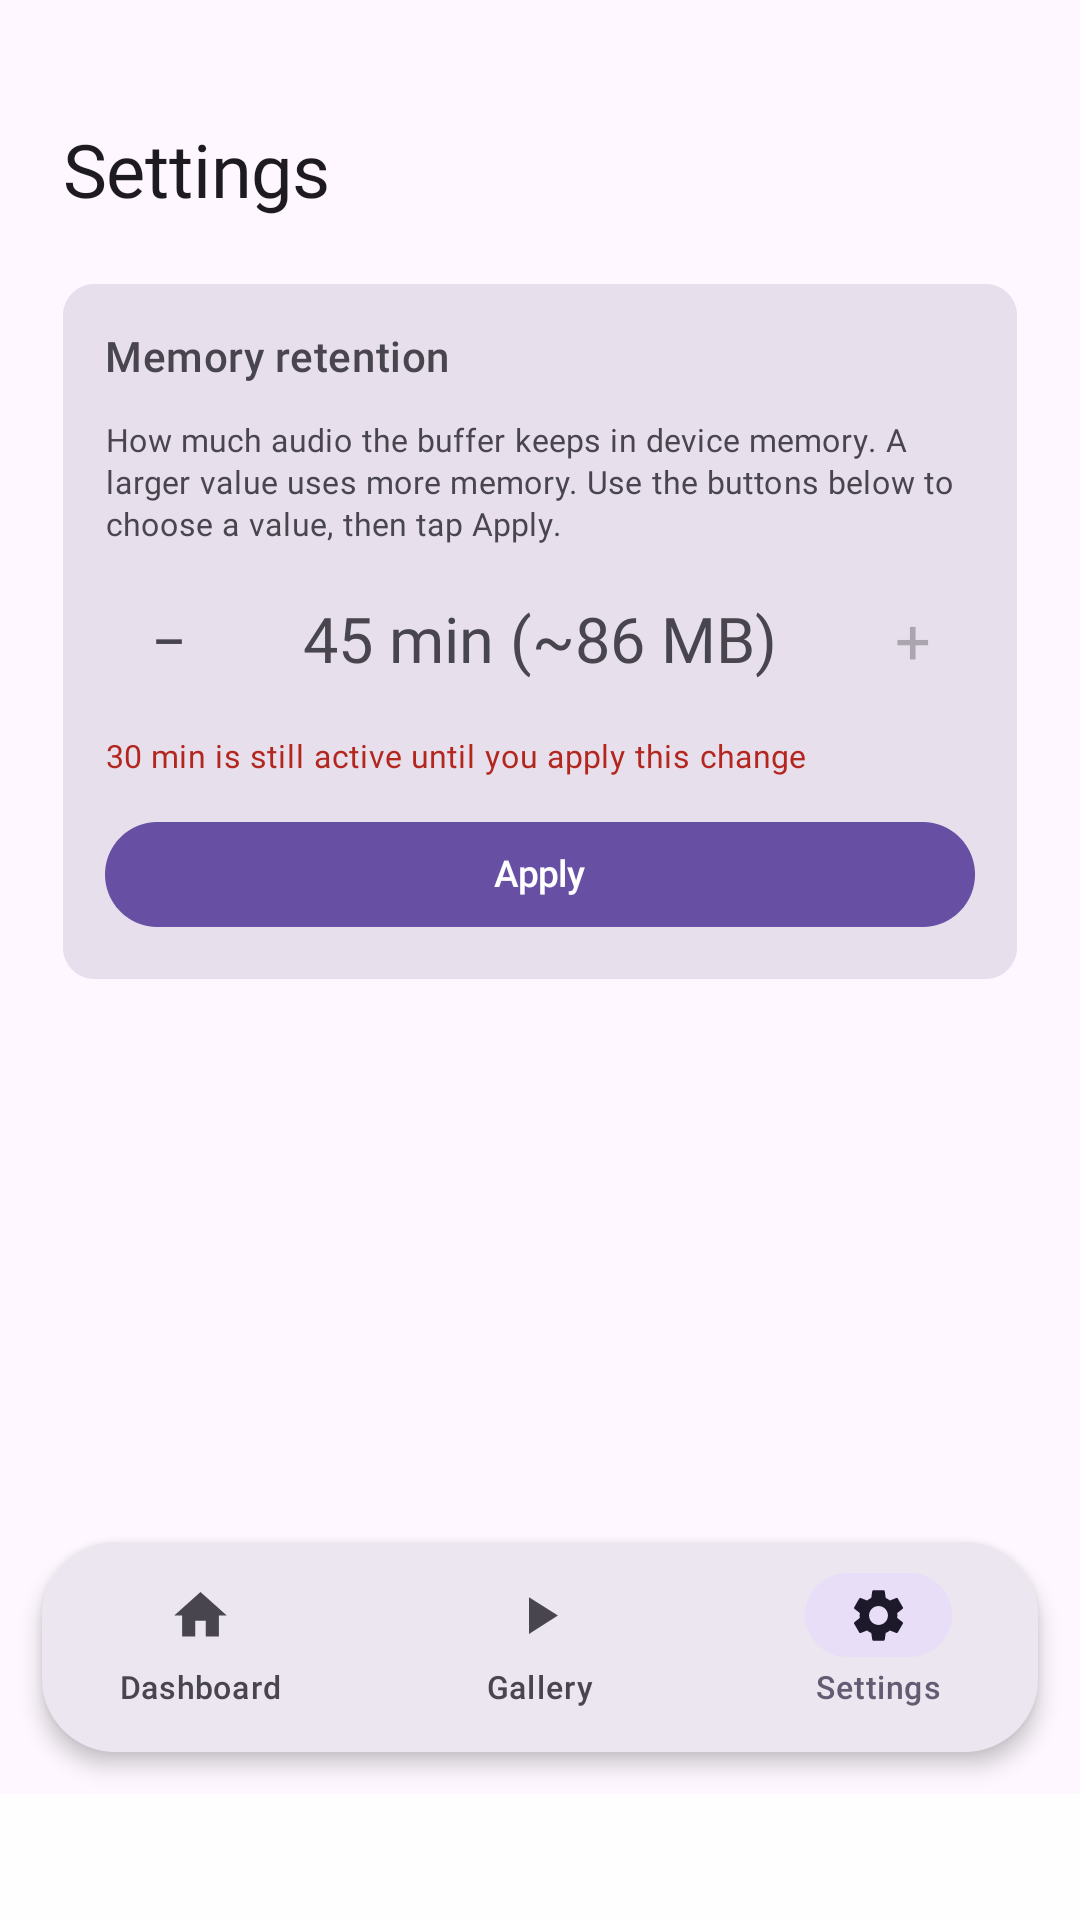
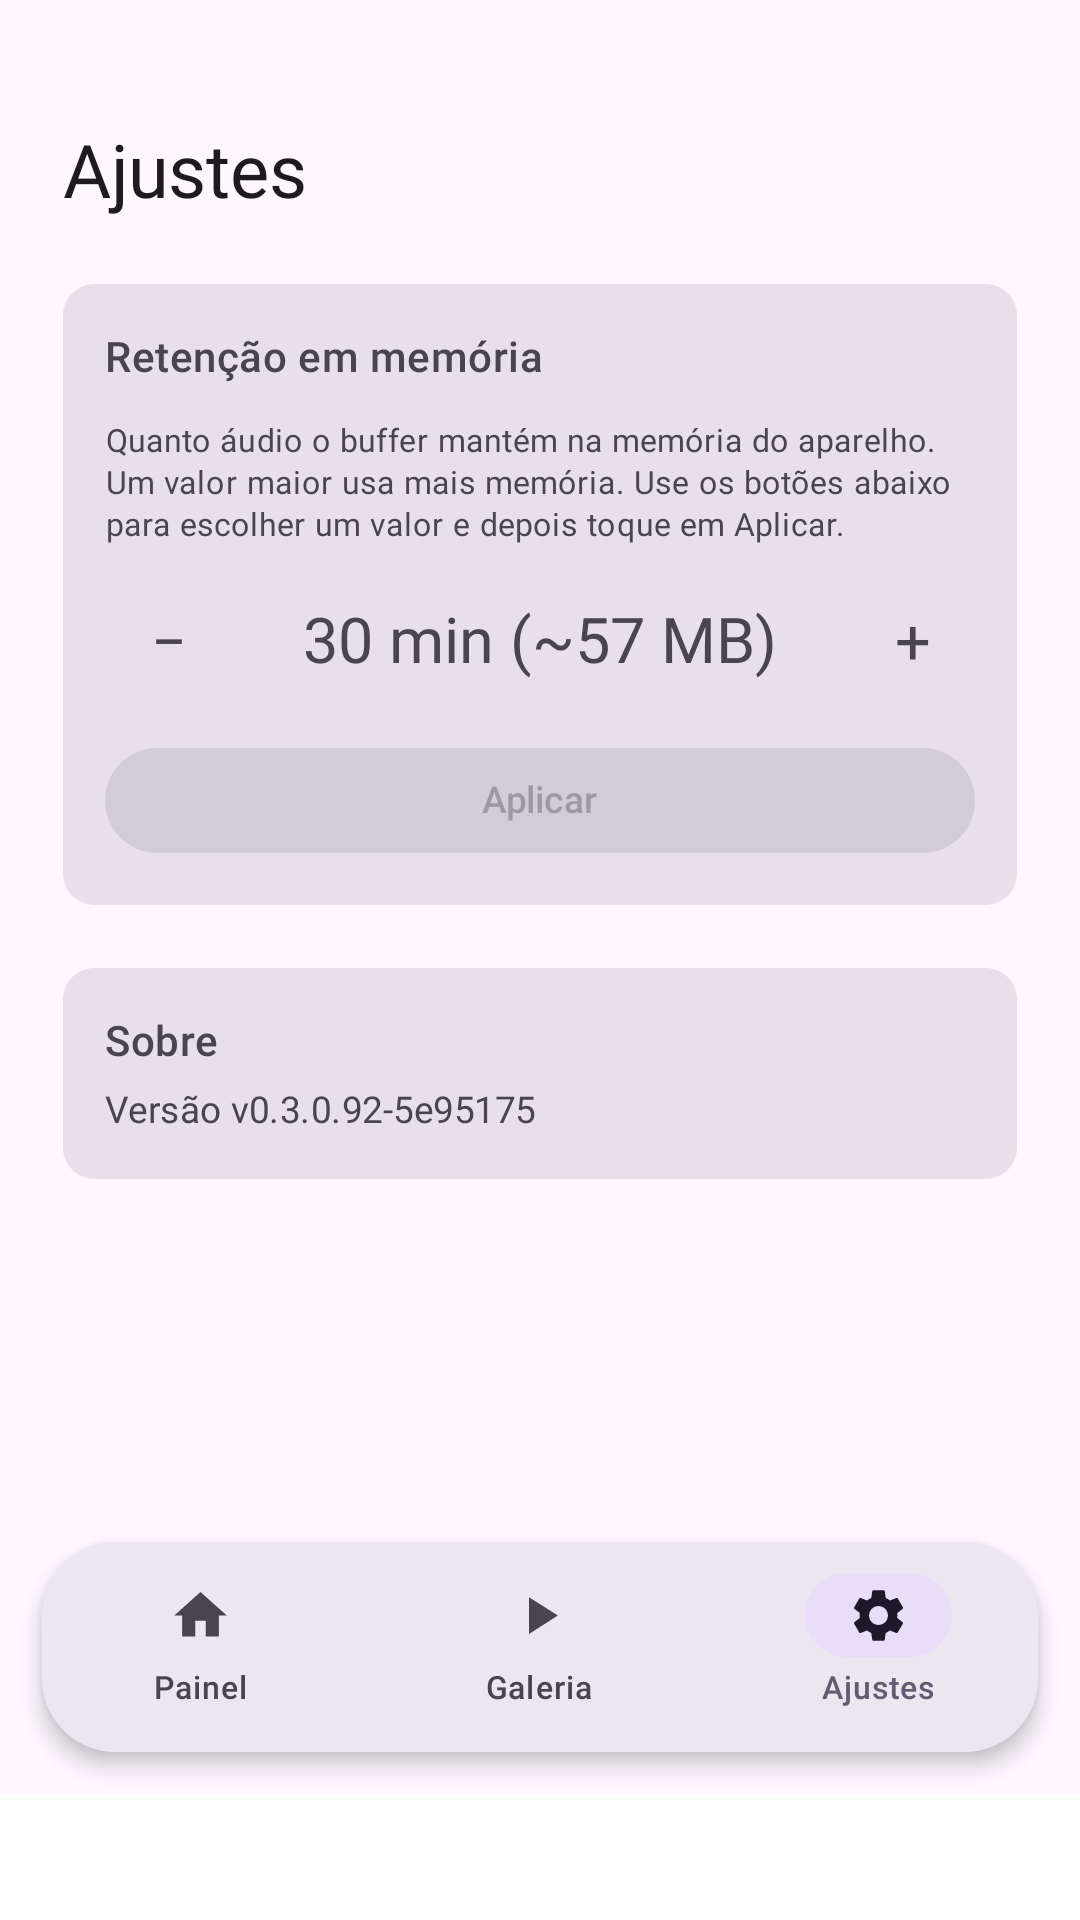
test: showcase fixture and pinned locale for store captures (fixes #151) (#152)
The store screenshots could not be regenerated because ScreenshotCaptureTest was
never a store-capture harness. Two independent defects, both silent.

## The locale was inherited from the device, and the device lies

An en-US capture rendered in Portuguese while `getprop persist.sys.locale`
cheerfully reported `en-US`. The resource resolver follows
`settings get system system_locales`, which on the CI AVD had persisted `pt-BR`
from an earlier session. It survives `settings put ... en-US` plus a framework
restart (the restart rewrites it from the running config) and it survives
`settings delete` plus `setprop persist.sys.locale en-US` plus `adb reboot`.
`am get-config` is the only honest oracle, and it disagreed with getprop the
whole time.

The locale is now pinned in-process with createConfigurationContext, so the
AVD's state is irrelevant and the result reproduces anywhere. Both locales are
captured in one test so the run can assert they differ: the realistic failure
is not a crash, it is two byte-identical images filed under two languages --
which already happened once and was caught only by running md5sum by hand.
That is now a build failure.

Deliberately does not touch Locale.setDefault. GalleryFormat builds its date
and size strings with a hardcoded pattern and an explicit Locale.US, by choice,
so the JVM default affects no pixel here; setting it would be a no-op dressed
up as a safeguard. Noted in the test so it is not added on assumption.
[…]

diff --git a/app/src/androidTest/java/cc/machado/audioblackbox/ui/ScreenshotCaptureTest.kt b/app/src/androidTest/java/cc/machado/audioblackbox/ui/ScreenshotCaptureTest.kt
@@ -1,9 +1,19 @@
 package cc.machado.audioblackbox.ui
 
+import android.content.Context
+import android.content.res.Configuration
 import android.graphics.Bitmap
+import android.os.LocaleList
 import androidx.activity.ComponentActivity
 import androidx.activity.enableEdgeToEdge
+import androidx.compose.runtime.CompositionLocalProvider
+import androidx.compose.runtime.getValue
+import androidx.compose.runtime.mutableStateOf
+import androidx.compose.runtime.remember
+import androidx.compose.runtime.setValue
 import androidx.compose.ui.graphics.asAndroidBitmap
+import androidx.compose.ui.platform.LocalConfiguration
+import androidx.compose.ui.platform.LocalContext
 import androidx.compose.ui.test.captureToImage
 import androidx.compose.ui.test.hasClickAction
 import androidx.compose.ui.test.hasText
@@ -11,7 +21,10 @@ import androidx.compose.ui.test.junit4.createAndroidComposeRule
 import androidx.compose.ui.test.onRoot
 import androidx.compose.ui.test.performClick
 import androidx.test.ext.junit.runners.AndroidJUnit4
+import androidx.test.platform.app.InstrumentationRegistry
 import cc.machado.audioblackbox.R
+import java.util.Locale
+import org.junit.Assert.assertFalse
 import org.junit.Assert.assertTrue
 import org.junit.Rule
 import org.junit.Test
@@ -64,13 +77,108 @@ class ScreenshotCaptureTest {
         capture("06-settings-compact")
     }
 
+    /**
+     * Store-listing captures (issue #151): the showcase fixtures, rendered once per locale, with the
+     * locale pinned in-process rather than inherited from the device.
+     *
+     * ## Why the locale is not set on the device
+     * It cannot be, reliably. `settings get system system_locales` is what the resource resolver
+     * actually follows, and on the CI AVD it persists across sessions: it survives
+     * `settings put ... en-US` followed by a framework restart (the restart rewrites it back from
+     * the running config), and it survives `settings delete` plus
+     * `setprop persist.sys.locale en-US` plus `adb reboot`. Worse, `getprop persist.sys.locale`
+     * happily reports the value you asked for while `am get-config` reports `pt-rBR` -- so the
+     * device lies about it, and the failure is silent: a valid PNG in the wrong language. That is
+     * how a previous capture run produced a pt-BR image sitting in the en-US store slot.
+     *
+     * `createConfigurationContext` sidesteps all of it. The locale comes from this file, the AVD's
+     * state is irrelevant, and the result is reproducible on any device or emulator.
+     *
+     * ## Why both locales are captured in one test
+     * So the last assertion can exist. The realistic failure here is not a crash, it is the two
+     * locales coming out byte-identical -- which is exactly what happened once before and was caught
+     * only by running `md5sum` by hand afterwards. Comparing them inside the test makes that a build
+     * failure instead of something a human has to remember to check.
+     */
+    @Test
+    fun capturesShowcaseInBothLocalesAndTheyDiffer() {
+        composeRule.runOnUiThread { composeRule.activity.enableEdgeToEdge() }
+
+        // showcaseDashboardFixture is CaptureState.Recording, which renders an infinite pulse
+        // animation. Left on the automatic clock, waitForIdle would never see a settled frame.
+        // Driving the clock by hand also makes the captured frame deterministic rather than
+        // whichever point of the pulse the capture happened to land on.
+        composeRule.mainClock.autoAdvance = false
+
+        var localeTag by mutableStateOf(LOCALE_EN)
+        var destination by mutableStateOf(Destination.DASHBOARD)
+
+        composeRule.setContent {
+            val localized = remember(localeTag) { localizedContext(localeTag) }
+            CompositionLocalProvider(
+                LocalContext provides localized,
+                LocalConfiguration provides localized.resources.configuration,
+            ) {
+                ShowcaseApp(destination)
+            }
+        }
+
+        val written = mutableMapOf<String, ByteArray>()
+        // Deliberately does NOT call Locale.setDefault. Providing LocalConfiguration covers resource
+        // lookup, and that is all this app needs: the only numerics it formats -- the capture date
+        // and the file size in GalleryFormat -- are built with a hardcoded pattern and an explicit
+        // Locale.US, by choice ("a numeric date pattern, not translated"). So the JVM default locale
+        // has no effect on any pixel captured here, and setting it would be a no-op dressed up as a
+        // safeguard. If locale-sensitive formatting is ever introduced, this is the place to add it
+        // back -- with a capture that demonstrably changes, not on the assumption that it must.
+        for (tag in listOf(LOCALE_EN, LOCALE_PT)) {
+            localeTag = tag
+            for ((dest, name) in DESTINATIONS) {
+                destination = dest
+                // Two frames: one for the recomposition triggered by the state change above, one to
+                // land on a fixed point of the pulse animation.
+                composeRule.mainClock.advanceTimeByFrame()
+                composeRule.mainClock.advanceTimeBy(ANIMATION_SETTLE_MILLIS)
+                written["$tag-$name"] = capture("$tag-$name")
+            }
+        }
+
+        // The failure this guards against is silent: same picture, two store slots, one of them in
+        // the wrong language. Compared per screen rather than in aggregate so the message names
+        // which screen failed to translate.
+        for ((_, name) in DESTINATIONS) {
+            val en = written.getValue("$LOCALE_EN-$name")
+            val pt = written.getValue("$LOCALE_PT-$name")
+            assertFalse(
+                "$name rendered byte-identically in $LOCALE_EN and $LOCALE_PT -- the locale was not " +
+                    "applied, and one of these would ship to the wrong store listing",
+                en.contentEquals(pt),
+            )
+        }
+    }
+
+    /**
+     * A [Context] whose resources resolve in [tag], regardless of the device's own locale.
+     *
+     * Built from the *instrumentation* target context rather than the activity, so it carries the
+     * app's resources and not the test APK's.
+     */
+    private fun localizedContext(tag: String): Context {
+        val base = InstrumentationRegistry.getInstrumentation().targetContext
+        val config = Configuration(base.resources.configuration).apply {
+            setLocales(LocaleList(Locale.forLanguageTag(tag)))
+        }
+        return base.createConfigurationContext(config)
+    }
+
     private fun galleryTab() =
         composeRule.onNode(hasText(composeRule.activity.getString(R.string.nav_gallery_label)) and hasClickAction())
 
     private fun settingsTab() =
         composeRule.onNode(hasText(composeRule.activity.getString(R.string.nav_settings_label)) and hasClickAction())
 
-    private fun capture(name: String) {
+    /** Returns the PNG bytes written, so a caller can compare two captures without re-reading them. */
+    private fun capture(name: String): ByteArray {
         val bitmap = composeRule.onRoot().captureToImage().asAndroidBitmap()
         assertTrue("captured a zero-sized bitmap for $name", bitmap.width > 0 && bitmap.height > 0)
 
@@ -84,10 +192,29 @@ class ScreenshotCaptureTest {
             assertTrue("PNG encoding failed for $file", bitmap.compress(Bitmap.CompressFormat.PNG, 100, out))
         }
         assertTrue("wrote an empty file at $file", file.length() > 0L)
+        return file.readBytes()
     }
 
     private companion object {
         /** Must match the path `scripts/ci/run-instrumented-tier.sh` pulls from. */
         const val SCREENSHOT_DIR_NAME = "screenshots"
+
+        /** Must match the directory names under `distribution/metadata/android/`. */
+        const val LOCALE_EN = "en-US"
+        const val LOCALE_PT = "pt-BR"
+
+        /** Long enough to be well past any entry transition, so the frame is a settled one. */
+        const val ANIMATION_SETTLE_MILLIS = 2_000L
+
+        /**
+         * Capture order and file naming. The numeric prefixes match the store asset numbering
+         * (`1_dashboard`, `2_gallery`, `3_settings`) so the mapping from capture to published asset
+         * is positional and does not need a lookup table.
+         */
+        val DESTINATIONS = listOf(
+            Destination.DASHBOARD to "01-dashboard",
+            Destination.GALLERY to "02-gallery",
+            Destination.SETTINGS to "03-settings",
+        )
     }
 }

diff --git a/app/src/androidTest/java/cc/machado/audioblackbox/ui/LayoutHarness.kt b/app/src/androidTest/java/cc/machado/audioblackbox/ui/LayoutHarness.kt
@@ -151,3 +151,125 @@ internal fun galleryFixture() = cc.machado.audioblackbox.ui.gallery.GalleryUiSta
     isLoading = false,
     items = emptyList(),
 )
+
+// --- Showcase fixtures (issue #151) ----------------------------------------------------------
+//
+// A SECOND, separate fixture set, used only by ScreenshotCaptureTest's store captures. The layout
+// fixtures above must not be reused for that and must not be "improved" to look nicer: every one of
+// them is deliberately an awkward state -- paused, buffer full, a notice open, a dirty pending
+// change -- chosen so the content overflows COMPACT_WINDOW_HEIGHT. That overflow is the only
+// condition under which issue #78's bug (a bottom bar drawn *over* content rather than reserving
+// space for it) is observable at all, so softening them would leave ScreenLayoutTest passing
+// against the broken layout. That is exactly the vacuous-test failure #78 was filed to avoid.
+//
+// These, by contrast, answer a different question: what should someone see in the Play Store
+// listing before they have ever run the app. Every state below is one the app really reaches; none
+// is an error, an interruption or an empty state. The store screenshots previously came from the
+// layout fixtures, which is why the published listing led with "Recording is paused because the
+// microphone is being used by a call."
+
+/** Recording normally, roughly two thirds of the way through a 30-minute buffer, nothing to dismiss. */
+internal fun showcaseDashboardFixture() = DashboardViewModel.mapUiState(
+    captureState = CaptureState.Recording,
+    bufferedMillis = 18L * 60_000L,
+    capacityMinutes = 30,
+    saveState = SaveUiState.Idle,
+)
+
+/** Settled on a 30-minute retention window: committed == pending, so no dirty notice and no dialog. */
+internal fun showcaseSettingsFixture() = SettingsViewModel.mapUiState(
+    committedMinutes = 30,
+    pendingMinutes = 30,
+    pendingConfirmationMinutes = null,
+)
+
+/**
+ * Three saved recordings rather than the empty state.
+ *
+ * Names follow the real `blackbox_<yyyy-MM-dd_HH-mm-ss>_<window>min.m4a` pattern, because
+ * `GalleryViewModel` parses the capture time back out of the filename -- a name that did not match
+ * would silently fall back to `DATE_ADDED` and render a date unrelated to the one in the name, which
+ * is a detail a reader of the screenshot would notice even if a test would not. Sizes are consistent
+ * with the durations at the app's default bitrate rather than round numbers.
+ *
+ * All three are [ItemPlaybackState.Stopped]: a screenshot of a mid-playback progress bar would
+ * advertise a specific position that means nothing out of context.
+ */
+internal fun showcaseGalleryFixture(): cc.machado.audioblackbox.ui.gallery.GalleryUiState {
+    fun item(name: String, minutes: Long, sizeBytes: Long, capturedAtMillis: Long) =
+        cc.machado.audioblackbox.ui.gallery.RecordingListItem(
+            recording = cc.machado.audioblackbox.ui.gallery.RecordingItem(
+                uri = android.net.Uri.parse("content://media/external/audio/media/$capturedAtMillis"),
+                displayName = name,
+                mimeType = "audio/mp4",
+                sizeBytes = sizeBytes,
+                durationMillis = minutes * 60_000L,
+                capturedAtMillis = capturedAtMillis,
+            ),
+            playback = cc.machado.audioblackbox.ui.gallery.ItemPlaybackState.Stopped,
+        )
+    return cc.machado.audioblackbox.ui.gallery.GalleryUiState(
+        isLoading = false,
+        items = listOf(
+            // capturedAtMillis must agree with the timestamp in the name beside it. The screen
+            // renders capturedAtMillis, so a mismatch shows a date the filename contradicts -- and
+            // this fixture bypasses GalleryViewModel.mapRowsToItems, which is what would normally
+            // derive one from the other. Values are those timestamps at UTC-3.
+            item("blackbox_2026-08-27_14-32-10_30min.m4a", 30, 28_918_272L, 1_787_851_930_000L),
+            item("blackbox_2026-08-26_09-05-44_15min.m4a", 15, 14_459_136L, 1_787_745_944_000L),
+            item("blackbox_2026-08-24_19-48-02_30min.m4a", 30, 28_918_272L, 1_787_611_682_000L),
+        ),
+    )
+}
+
+/**
+ * [HarnessApp] with the showcase fixtures and its destination driven from outside.
+ *
+ * Externally driven on purpose: [HarnessApp] keeps its own `rememberSaveable` selection and is
+ * navigated by clicking the bottom bar, which means resolving each tab's label string. Under a
+ * pinned locale those labels are not the ones the instrumentation's own context would return, so a
+ * capture run would have to look them up through the localized context to find the node. Passing the
+ * destination in removes that coupling entirely -- the capture never needs to know what any tab is
+ * called in the language being captured.
+ */
+@Composable
+internal fun ShowcaseApp(destination: Destination) {
+    AudioBlackboxTheme {
+        AppScaffold(
+            selectedDestination = destination,
+            onSelectDestination = {},
+            showBottomBar = true,
+        ) {
+            when (destination) {
+                Destination.DASHBOARD -> DashboardScreen(
+                    uiState = showcaseDashboardFixture(),
+                    onToggleEngine = {},
+                    onSaveRecent = {},
+                    onDismissSaveNotice = {},
+                    onStartForwardRecording = {},
+                    onStopForwardRecording = {},
+                    onDismissForwardNotice = {},
+                )
+                Destination.GALLERY -> cc.machado.audioblackbox.ui.gallery.GalleryScreen(
+                    uiState = showcaseGalleryFixture(),
+                    onPlayPauseClicked = {},
+                    onSeek = {},
+                    onShareClicked = {},
+                    onDeleteRequested = {},
+                    onDeleteConfirmed = {},
+                    onDeleteCancelled = {},
+                    onDeleteErrorDismissed = {},
+                )
+                Destination.SETTINGS -> SettingsScreen(
+                    uiState = showcaseSettingsFixture(),
+                    onDecrement = {},
+                    onIncrement = {},
+                    onApply = {},
+                    onConfirmRetentionWindowChange = {},
+                    onCancelRetentionWindowChange = {},
+                    onAcknowledgeClampNotice = {},
+                )
+            }
+        }
+    }
+}
